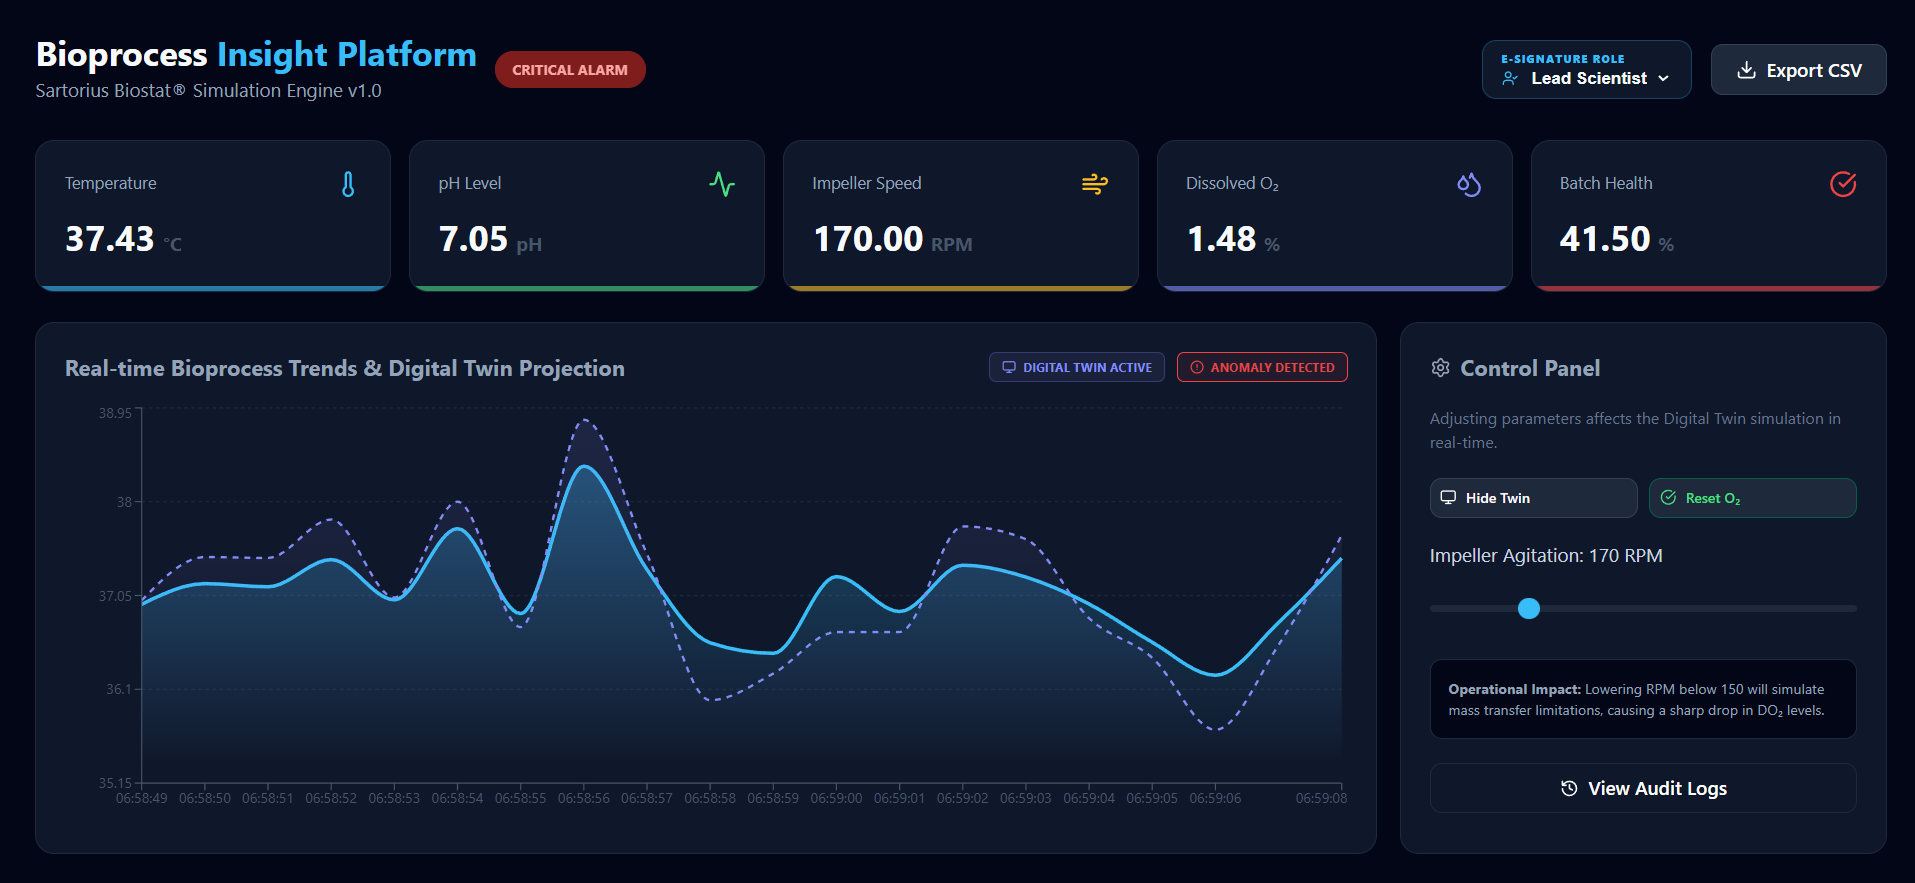
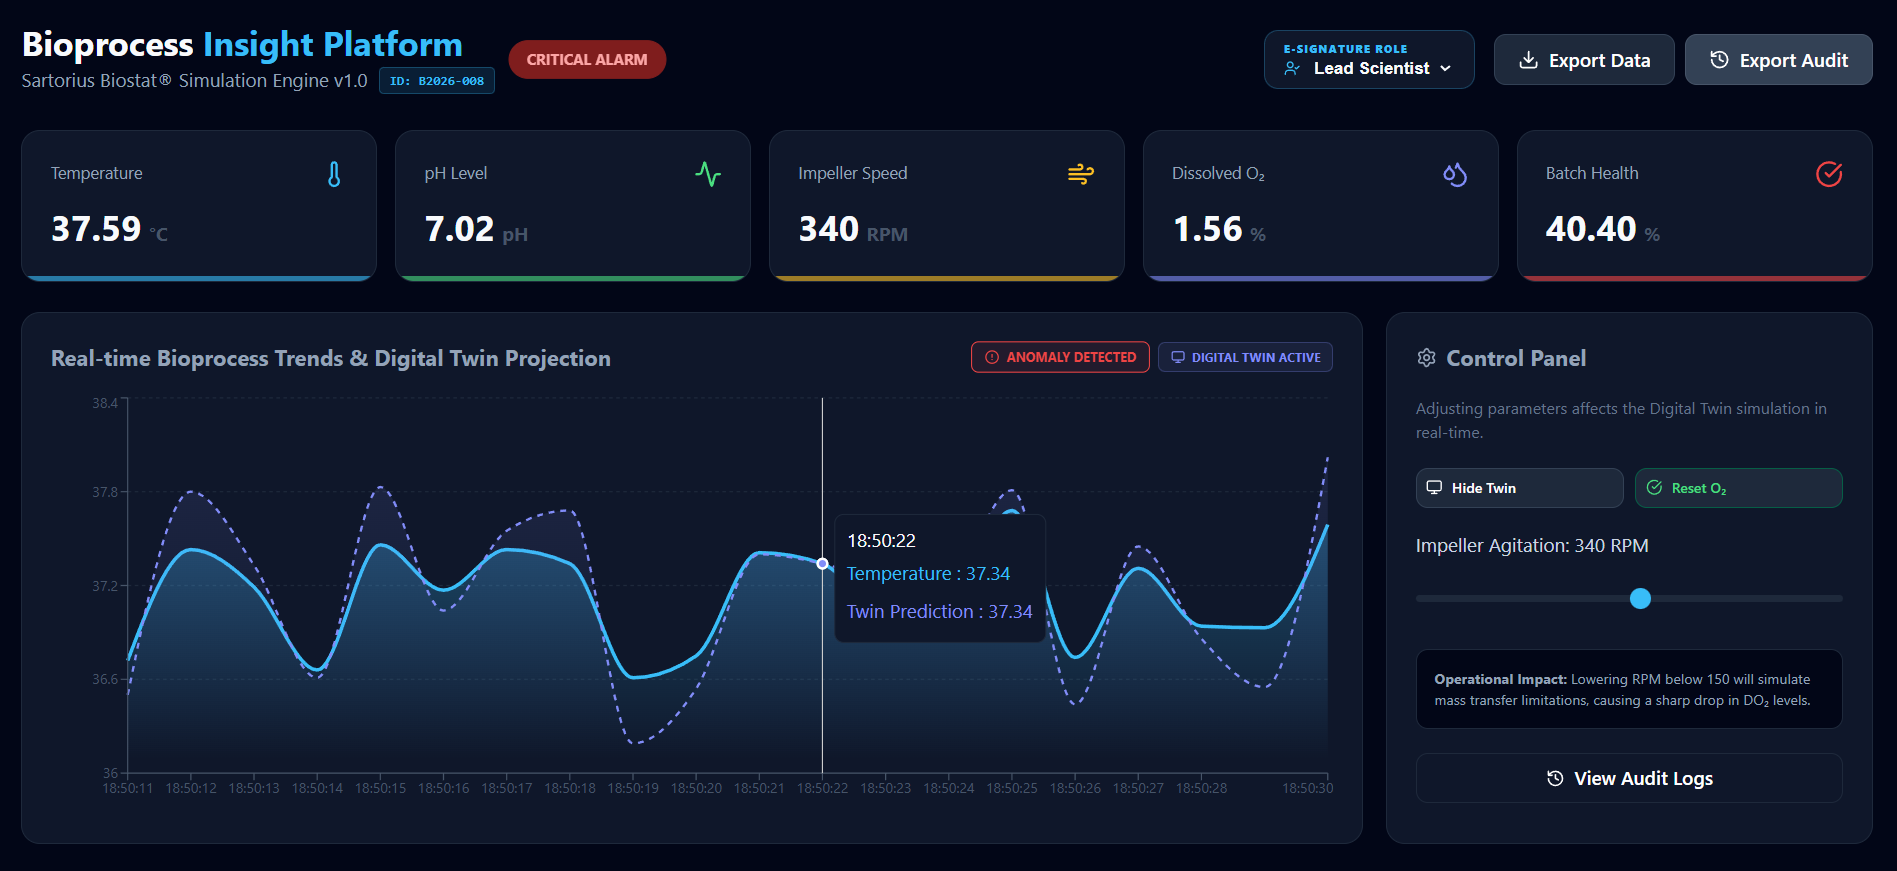
Update readme and Screenshots

diff --git a/README.md b/README.md
@@ -3,12 +3,15 @@
 **A Real-time Bioreactor Monitoring Dashboard for Industrial Fermentation**
 
 ## 🧪 Project Overview
-This platform simulates a live connection to a **Sartorius Biostat®** controller, providing real-time data visualization and automated anomaly detection for critical process parameters (CPPs). It utilizes a **Triad Microservice Architecture** to bridge the gap between historical data and live operational compliance.
+This platform simulates a live connection to a **Sartorius Biostat®** controller, providing real-time data visualization and automated anomaly detection for critical process parameters (CPPs). It utilizes a **Triad Microservice Architecture** to bridge the gap between historical data, AI-driven automation, and live operational compliance.
 
 ---
 
 ## 📸 Dashboard Preview
 ![BIP Dashboard Preview](./assets/dashboard-preview-static.png)
+
+## 📸 Dashboard Preview (AI ACTIVE)
+![BIP Dashboard Preview AI Active](./assets/dashboard-preview-static-ai-active.png)
 
 ---
 
@@ -17,6 +20,7 @@ The platform is fully orchestrated across a distributed cloud architecture:
 
 - **Frontend/Live HMI Dashboard:** [https://bioprocess-insights-platform.vercel.app/] (Hosted on Vercel)
 - **Backend API:** [https://bioprocess-insights-platform.onrender.com/api/v1/process-data] (Hosted on Render)
+- **Audit Service:**[https://bioprocess-audit-service.onrender.com/api/audit]
 
 
 ---
@@ -24,11 +28,11 @@ The platform is fully orchestrated across a distributed cloud architecture:
 
 This system utilizes a **Decoupled Triad Architecture**:
 
-1. **HMI Layer (React/TS):** A high-fidelity dashboard with real-time charting and GxP-compliant pulsing alarms. The "Human-Machine Interface"—orchestrates data from both backends into a unified real-time view.
+1. **HMI Layer (React/TS):** A high-fidelity dashboard (Node 22) featuring **E-Signature Roles**, real-time charting and GxP-compliant pulsing alarms. The "Human-Machine Interface"—orchestrates data from both backends into a unified real-time view.
 
-2. **Digital Twin Engine (Python/FastAPI):** Handles high-frequency mathematical projections and physics-based simulations (Oxygen Transfer Rate). The "SCADA" layer—handles high-frequency mathematical projections and Digital Twin logic.
+2. **Digital Twin Engine (Python/FastAPI):** Handles high-frequency mathematical projections, **AI Pilot** automated correction logic, and physics-based simulations (Oxygen Transfer Rate). The "SCADA" layer—handles high-frequency mathematical projections and Digital Twin logic.
 
-3. **Compliance Service (.NET 10/C#):** An independent audit microservice that records immutable logs of all operator interactions (21 CFR Part 11). The "Compliance" layer—ensures all interactions are logged for regulatory review.
+3. **Compliance Service (.NET 10/C#):** An independent audit microservice that records **immutable** logs of all operator interactions (21 CFR Part 11). The "Compliance" layer—ensures all interactions are logged for regulatory review.
 
 ![Bioprocess Insight Platform (BIP) Preview](./assets/bioprocess-system-architecture-diagram.png)
 
@@ -53,21 +57,30 @@ This system utilizes a **Decoupled Triad Architecture**:
 
 ## 🚀 Key Features
 
-### 🧪 Core Process Logic
-* **Real-time Data Engine:** Built with **FastAPI** to stream multivariate sensor telemetry (Temperature, pH, Dissolved Oxygen) at a high-frequency 1000ms interval.
-* **Predictive Digital Twin:** Utilizes a moving-window linear regression algorithm to project temperature trends 60 seconds into the future, anticipating shifts before they occur.
-* **Dynamic Physics Simulation:** Features a real-time mathematical correlation between **Impeller RPM** and **Oxygen Mass Transfer**, allowing the simulation to react physically to operator input.
-* **Batch Health Scoring:** An algorithmic viability index that calculates real-time "Golden Batch" deviations based on thermal and chemical setpoint variances.
-* **Automated Anomaly Detection:** Intelligent flagging system for out-of-spec events, such as thermal spikes or mechanical agitation failure.
+### 🤖 Intelligent Automation & Batch Logic
+* **AI Pilot (Closed-Loop Control):** A newly integrated AI layer that monitors batch health. If Dissolved Oxygen ($DO_2$) drops below critical thresholds, the AI Pilot takes control of the Impeller RPM to restore optimal growth
+  * **Real-time Data Engine:** Built with **FastAPI** to stream multivariate sensor telemetry (Temperature, pH, Dissolved Oxygen) at a high-frequency 1000ms interval.
+  * **Dynamic Physics Simulation:** Features a real-time mathematical correlation between **Impeller RPM** and **Oxygen Mass Transfer**, allowing the simulation to react physically to operator input.
+  * **Batch Health Scoring:** An algorithmic viability index that calculates real-time "Golden Batch" deviations based on thermal and chemical setpoint variances.
+  * **Automated Anomaly Detection:** Intelligent flagging system for out-of-spec events, such as thermal spikes or mechanical agitation failure.
+* **Batch ID Tracking:** Implemented a unique batch numbering system ``(e.g., B2026-001)`` that persists across the API and HMI, ensuring every production run is isolated and identifiable.
+* **Predictive Digital Twin Visualisation:** Utilizes a moving-window linear regression algorithm to project temperature trends 60 seconds into the future, anticipating shifts before they occur. _A predictive area chart overlay that projects future temperature trends using linear regression over a sliding window._
 
-### 🛡 Compliance & Data Integrity
-* **GxP Audit Trail:** Integrated **.NET 10 microservice** that records immutable logs of every setpoint change and data export, ensuring 21 CFR Part 11 compliance.
+### 🛡 Compliance, Data Integrity & Digital Signature
+* **Role-Based E-Signatures:** Operators can switch between roles (Lead Scientist, Lab Tech, QA Auditor). Every action is digitally signed and attributed to the active role in the Audit Trail.
+* **Immutable GxP Audit Trail:** Integrated **.NET 10 microservice** (Powered by .NET 10) that records immutable logs capturing Setpoint changes, Anomaly injections, and Data exports with millisecond-precision timestamps ensuring 21 CFR Part 11 compliance.
 * **Data Portability:** Secure one-click CSV export engine for generating full batch historical reports for offline analysis.
+* **21 CFR Part 11 Exports:** Features a dedicated Audit Export engine that generates CSV "receipts" of all verified interactions.
+
+### 🧪 Process Physics & Chaos Engineering
+* **Oxygen Mass Transfer Simulation:** Real-time mathematical correlation between Impeller RPM and Oxygen Mass Transfer ($k_La$).
+* **Anomaly Injection:** A "Chaos" feature allowing operators to manually trigger process failures (O2 deviation) to test system resilience and GxP alarm response.
 
 ### 🚨 Industrial UI/UX
 * **Interactive HMI:** Dynamic dashboard featuring live-synced area charts and KPI cards built with **React** and **Recharts**.
 * **Deterministic Alarms:** High-contrast pulsing animations for "Critical" states, engineered to reduce operator reaction time during process excursions.
 * **Dynamic Status Badging:** At-a-glance operational indicators (**OPTIMAL**, **SUB-OPTIMAL**, **CRITICAL**) driven by real-time health score logic.
+* **AI Active:** Showing when the AI takes over the system to restore balance.
 
 ---
 
@@ -81,39 +94,55 @@ In biopharmaceutical manufacturing, **Data Integrity** is non-negotiable (21 CFR
 
 ## 🛠 Tech Stack
 - **Backend (Data Engine):** Python 3.12, FastAPI, Pandas
-- **Backend (Compliance/Audit):** .NET 10, C#, ASP.NET Core
+- **Backend (Compliance/Audit):** .NET 10, C#, ASP.NET Core, SQLite
 - **Frontend (HMI):** React (TypeScript), Recharts, Lucide-React
 - **Styling:** CSS-in-JS & GxP Alarm Animations (Custom CSS Keyframes)
-
+- **Containerization:** Docker & Docker Compose (Multi-container orchestration)
 
 ---
 
-## 🚦 Getting Started
-
-### 1. Prerequisites
-- Python 3.10+ 
-- Node.js (v18+)
-- npm or yarn
-
-
-### 2. Backend Setup
-Navigate to the `backend` directory, create a virtual environment, and install dependencies:
+## 🚦 Getting Started (Docker Dev Mode)
+The entire triad is containerized for environment parity. To launch the full platform including the Python API, .NET Service, and React HMI:
 
 ```bash
-cd backend
-python -m venv venv
-# Windows:
-.\venv\Scripts\activate 
-# Mac/Linux:
-source venv/bin/activate
+# 1. Clone the repository
+git clone https://github.com/your-repo/bip-platform.git
 
+# 2. Launch with Docker Compose
+docker-compose up --build
+```
+
+---
+
+## 🚦 Getting Started (Local Development)
+
+To run the full suite locally, you must have **Python 3.10+**, **Node 22**, and the **.NET 8/10 SDK** installed.
+
+### 1. Environment Configuration
+Create a file named ``.env.local`` in the ``/frontend`` directory:
+
+```Code snippet
+VITE_API_URL=http://localhost:8000
+VITE_AUDIT_SERVICE_URL=http://localhost:5197
+```
+
+### 2. Launch Services (Open 3 Terminals)
+- **Terminal 1: Python Engine**
+
+```bash
+cd backend && python -m venv venv && source venv/bin/activate
 pip install -r requirements.txt
 python main.py
 
 ```
 
-### 3. Frontend Setup
-In a new terminal, navigate to the frontend directory:
+- **Terminal 2: .NET Audit Service**
+
+```bash
+cd AuditService
+dotnet run --urls=http://localhost:5197
+```
+- **Terminal 3: React HMI**
 
 ```bash
 cd frontend
@@ -121,26 +150,22 @@ npm install
 npm run dev
 ```
 
-### 4. Compliance Service Setup (.NET)
-In a new terminal, navigate to the audit service directory:
-```bash
-cd AuditService
-dotnet run
-```
+---
 
-### 4. Code Standards & Quality
+### 3. Code Standards & Quality
 - **Type Safety:** Utilizes strict TypeScript interfaces for multivariate sensor data.
 - **Environment Awareness:** Implemented dynamic API routing to switch between `localhost` and `production` cloud endpoints automatically.
 
 
-###  5. 🌐 Local Access
+### 4. 🌐 Local Access
 Once both services are started, the platform is available at:
 
-| Component | URL |
-| :--- | :--- |
-| **BIP Dashboard (Frontend)** | `http://localhost:5173` |
-| **Data Stream (API)** | `http://127.0.0.1:8000/api/v1/process-data` |
+| Component | URL | Port |
+| :--- | :--- | :--- |
+| **BIP Dashboard (Frontend)** | `http://localhost:5173` | 5173 |
+| **Data Stream (API)** | `http://127.0.0.1:8000/api/v1/process-data` | 8000 |
 | **Interactive API Docs** | `http://127.0.0.1:8000/docs` |
+| **Audit Service** | `http://localhost:5197/api/audit` | 5197 |
 
 ---
 
@@ -223,16 +248,22 @@ The health score is a simulated Quality Index ($Q$) calculated based on the devi
 
 $$Health = 100 - (|T_{actual} - 37| \times 15) - (|pH_{actual} - 7| \times 40)$$
 
-### 2. Anomaly Triggers
+
+### 2. AI Pilot Correction Logic
+When $DO_2 < 20\%$, the AI Pilot activates and calculates the necessary RPM boost:$$RPM_{new} = \min(600, RPM_{current} + \Delta Correction)$$
+
+### 3. Anomaly Triggers
 A batch is flagged as an Anomaly if:
 - Temperature > $40.0°C$
 - Impeller Speed < $100.0\ RPM$
 
-### 3. Digital Twin & Predictive Analytics
+### 4. Digital Twin & Predictive Analytics
 The platform features a **Digital Twin** layer that uses a moving-window linear regression to predict process trends:
 - **Calibration Phase:** Upon startup, the system enters a 5-second "Warm-up" to populate the sliding buffer required for accurate slope calculation.
 - **Trend Analysis:** Predicts Temperature 60 seconds into the future based on the current $\Delta T / \Delta t$.
 - **Predictive Alarms:** Early warning system that triggers if the Digital Twin deviates from the safety setpoints before the physical sensors do /reach the threshold.
+
+$$T_{pred} = T_{curr} + \left(\frac{T_{curr} - T_{prev}}{\Delta t}\right) \times 60$$
 
 
 ### 4. Closed-Loop Simulation (Oxygen Transfer)
@@ -249,10 +280,11 @@ This allows the Digital Twin to react dynamically when an operator adjusts the s
 ## 📂 Repository Structure
 
 ```Plaintext
-├── backend/               # FastAPI Server & Digital Twin Logic
+├── backend/               # FastAPI Server, AI Pilot & Digital Twin Logic
 ├── AuditService/          # .NET 10 Compliance & Audit Microservice
 ├── frontend/              # React/TypeScript HMI & Dashboard
 ├── data/                  # Source CSV files (bioreactor-yields.csv)
+├── docker-compose.yml     # Multi-service orchestrator
 ├── .gitignore             # Git exclusion rules
 └── README.md              # Project Documentation
 ```
